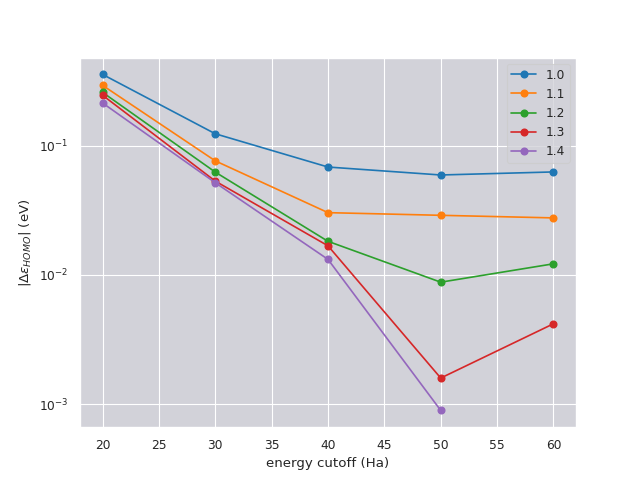
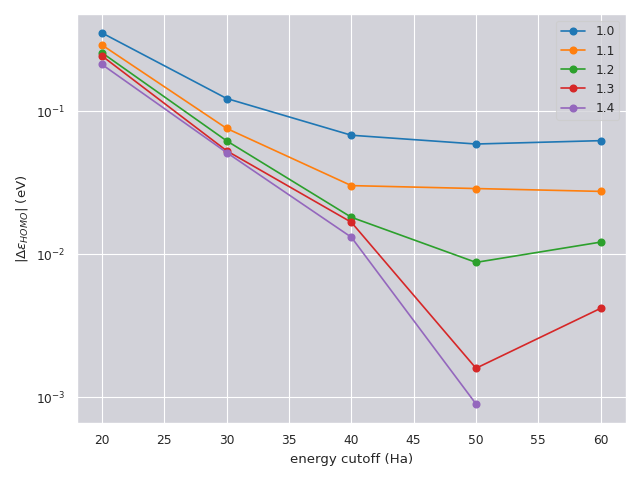
Make background of figure transparent

diff --git a/_static/tutorials/plot_pbe_convergence.py b/_static/tutorials/plot_pbe_convergence.py
@@ -3,14 +3,13 @@ from koopmans import io
 import matplotlib.pyplot as plt
 import aesthetics
 
-
 if __name__ == '__main__':
 
     calcs = []
     for fname in glob('*/*/*.cpo'):
         fname = fname.replace('.cpo', '')
         calc = io.load_calculator(fname)
-        calc.cell_size = calc.calc.atoms.cell[0, 0]
+        calc.cell_size = calc.calc.atoms.cell[0, 0] 
         calcs.append(calc)
 
     ecutwfcs = sorted(list(set([c.ecutwfc for c in calcs])))
@@ -36,4 +35,5 @@ if __name__ == '__main__':
     ax.set_xlabel('energy cutoff (Ha)')
 
     ax.legend()
-    plt.savefig('pbe_convergence_plot.pdf')
+    plt.tight_layout()
+    plt.savefig('pbe_convergence_plot.png', facecolor=(1,1,1,0))
